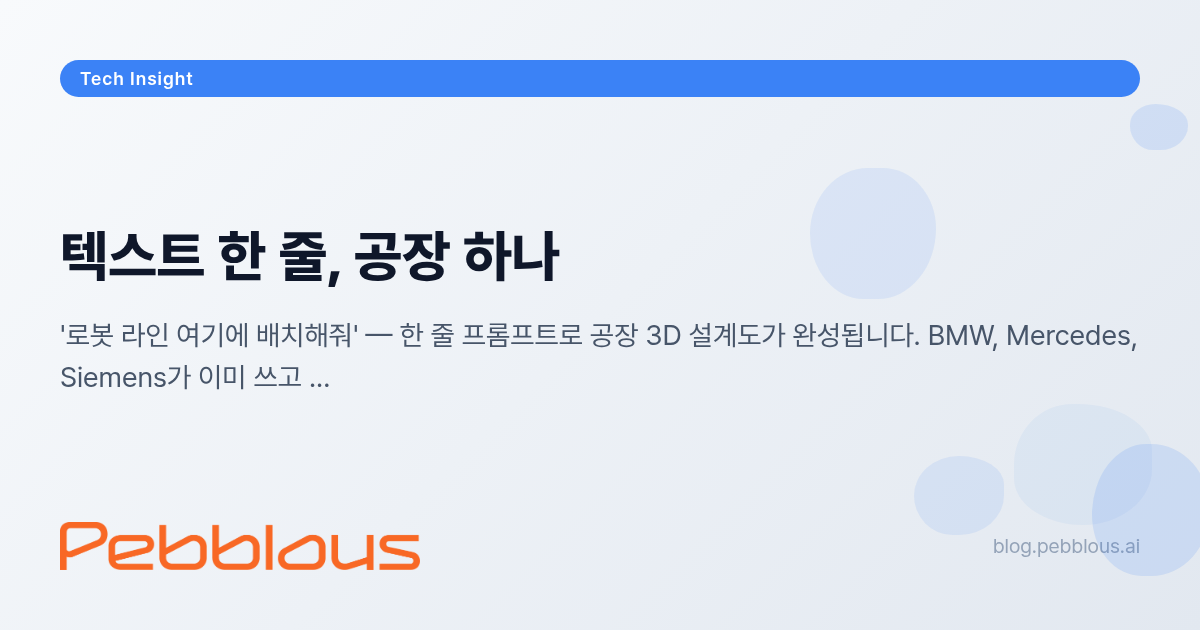
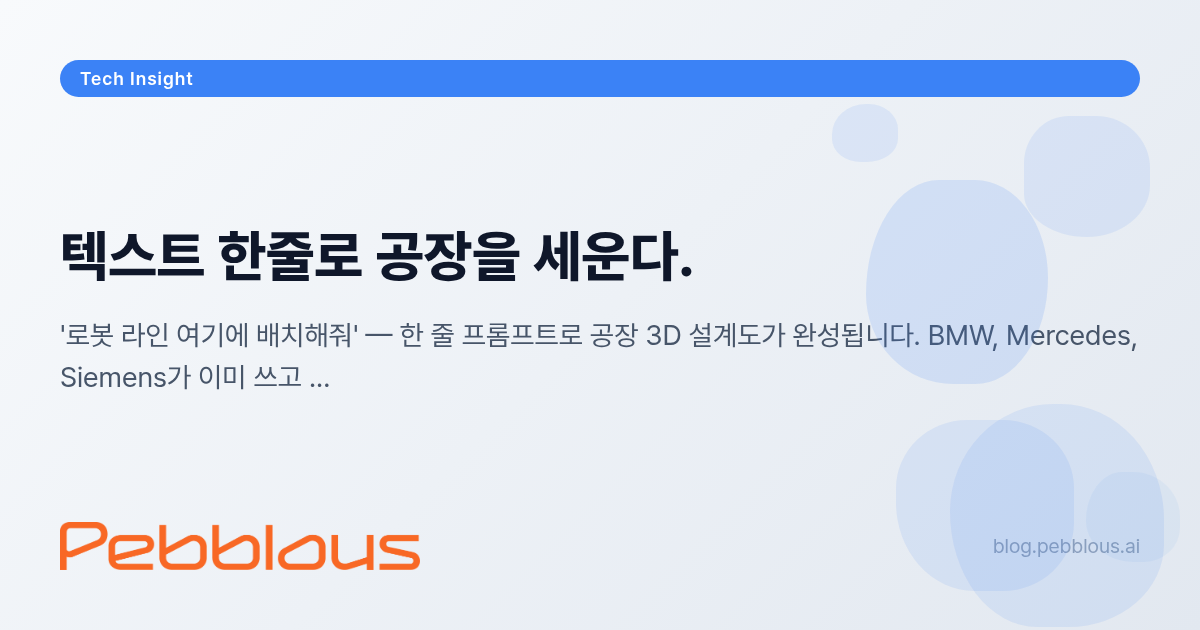
refine(text-to-factory): 한글 OG 제목 → '텍스트 한줄로 공장을 세운다.'

diff --git a/blog/text-to-factory/ko/index.html b/blog/text-to-factory/ko/index.html
@@ -23,15 +23,15 @@
     <link rel="alternate" hreflang="x-default" href="https://blog.pebblous.ai/blog/text-to-factory/en/">
 
     <!-- Open Graph -->
-    <meta name="og-image-title" content="텍스트 한 줄, 공장 하나">
-    <meta property="og:title" content="텍스트 한 줄이면 공장이 생긴다 — Omniverse·Physical AI 디지털 공장 혁명">
+    <meta name="og-image-title" content="텍스트 한줄로 공장을 세운다.">
+    <meta property="og:title" content="텍스트 한줄로 공장을 세운다 — Omniverse·Physical AI 디지털 공장 혁명">
     <meta property="og:description" content="'로봇 라인 여기에 배치해줘' — 한 줄 프롬프트로 공장 3D 설계도가 완성됩니다. BMW, Mercedes, Siemens가 이미 쓰고 있는 기술의 실체를 분석합니다.">
     <meta property="og:type" content="article">
     <meta property="og:url" content="https://blog.pebblous.ai/blog/text-to-factory/ko/">
     <meta property="og:image" content="https://blog.pebblous.ai/blog/text-to-factory/ko/image/index.png">
     <meta property="og:image:width" content="1200">
     <meta property="og:image:height" content="630">
-    <meta property="og:image:alt" content="텍스트 한 줄, 공장 하나 — Omniverse와 Physical AI가 만드는 디지털 공장 혁명">
+    <meta property="og:image:alt" content="텍스트 한줄로 공장을 세운다 — Omniverse와 Physical AI가 만드는 디지털 공장 혁명">
     <meta property="og:site_name" content="페블러스 블로그">
     <meta property="og:locale" content="ko_KR">
     <meta property="article:published_time" content="2026-04-02">
@@ -629,7 +629,7 @@
     <script src="/scripts/common-utils.js?v=20260402"></script>
     <script>
         PebblousPage.init({
-            mainTitle: "텍스트 한 줄, 공장 하나",
+            mainTitle: "텍스트 한줄로 공장을 세운다.",
             subtitle: "Omniverse, USD, Physical AI가 만드는 디지털 공장 혁명",
             pageTitle: "텍스트 프롬프트로 공장 레이아웃 자동 생성 — NVIDIA Omniverse와 Physical AI | 페블러스",
             category: "tech",
